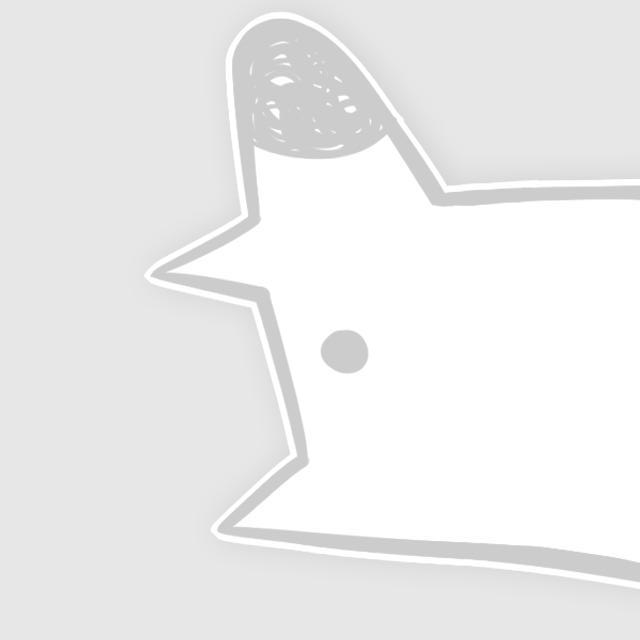
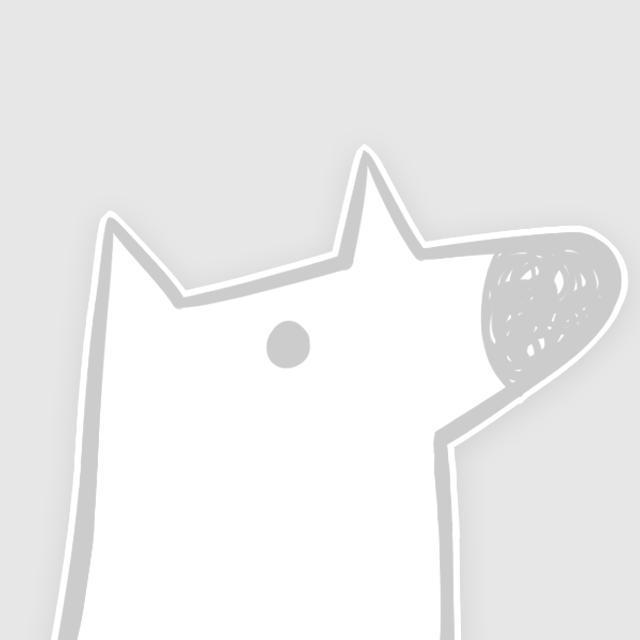
再改一改默认图片

Changed region(s): [[0.0938, 0.0312, 1.0, 1.0]]

diff --git a/frontend/infoVerificationSys/src/views/student/OCRVerify/OCRVerify.vue b/frontend/infoVerificationSys/src/views/student/OCRVerify/OCRVerify.vue
@@ -2,7 +2,7 @@
 
 <template>
   <div id="OCRVerify">
-    <mt-header fixed title="（1 / 3）OCR身份识别">
+    <mt-header fixed title="（1 / 4）OCR身份识别">
       <router-link to="/stu" slot="left">
         <mt-button icon="back">返回</mt-button>
       </router-link>
@@ -56,7 +56,7 @@
 import MtButton from 'mint-ui/packages/button/src/button'
 import MtHeader from "mint-ui/packages/header/src/header"
 import {MessageBox,Indicator} from 'mint-ui'
-import {doOCR, doOCRNegative, getStatus} from "../../../utils/stuAPI";
+import {userOCRLogin, getStatus} from "../../../utils/stuAPI";
 import lrz from 'lrz';
 import Cookies from 'js-cookie'
 import MtRadio from "mint-ui/packages/radio/src/radio";
@@ -87,8 +87,8 @@ export default {
       backCommitState: false,
       backCommitAble:false,
       sheetVisible:false,
-      img1:'https://github.com/CgyAlexwong/InfoVerficationSys/blob/uc1/frontend/infoVerificationSys/src/assets/da8e974dc.jpg?raw=true',
-      img2:'https://github.com/CgyAlexwong/InfoVerficationSys/blob/uc1/frontend/infoVerificationSys/src/assets/da8e974dc.jpg?raw=true',
+      img1:'https://github.com/CgyAlexwong/InfoVerficationSys/blob/uc1/frontend/infoVerificationSys/src/assets/default.jpg?raw=true',
+      img2:'https://github.com/CgyAlexwong/InfoVerficationSys/blob/uc1/frontend/infoVerificationSys/src/assets/default.jpg?raw=true',
       formData1 : new FormData(),
       formData2 : new FormData(),
       r1: 0,
@@ -147,7 +147,7 @@ export default {
     checkFront () {
       console.log(this.type);
       Indicator.open({text:'通行证正面校验中，请稍等……',spinnerType:'fading-circle'});
-      doOCR(this.formData1,this.type).then(res =>{
+      userOCRLogin(this.formData1,this.type).then(res =>{
         Indicator.close();
         //if (res.succeed === true){
           //MessageBox.alert('', {

diff --git a/frontend/infoVerificationSys/src/utils/stuAPI.js b/frontend/infoVerificationSys/src/utils/stuAPI.js
@@ -29,9 +29,9 @@ let http = axios.create({
 
 // 00 反馈
 // 留下联系信息 stuName String, contact String, remark String
-// export const feedBack = params => {
-//   return axios.post('/userBasicFunc/feedback', params, {headers: {identityNum: Cookies.get('id')}}).then(res => res.data)
-// };
+export const feedBack = params => {
+  return axios.post('/userBasicFunc/feedback', params, {headers: {identityNum: Cookies.get('id')}}).then(res => res.data)
+};
 
 // 01 身份选择
 // 检查通行证号是否存在
@@ -41,9 +41,9 @@ export const userJuniorLogin = params => {
 
 // 02 人脸识别
 // 上传人脸照片文件匹配 File photo, HttpServletRequest request
-// export const recognize = (params,times) => {
-//   return axios.post('/faceRecognition/recognize', params, {headers: {identityNum: Cookies.get('id'),times:times}}).then(res => res.data)
-// };
+export const recognize = (params,times) => {
+  return axios.post('/faceRecognition/recognize', params, {headers: {identityNum: Cookies.get('id'),times:times}}).then(res => res.data)
+};
 
 // 03 OCR识别
 // 上传通行证正面 File identification, HttpServletRequest request
@@ -72,9 +72,9 @@ export const setOtherInfo = params => {
 
 // 05电子签名
 // 提交电子签名
-// export const setSignature = params => {
-//   return axios.post('/userBasicFunc/sign', params, {headers: {identityNum: Cookies.get('id')}}).then(res => res.data)
-// };
+export const setSignature = params => {
+  return axios.post('/userBasicFunc/sign', params, {headers: {identityNum: Cookies.get('id')}}).then(res => res.data)
+};
 
 // 获取学生状态信息
 export const getStatus = () => {

diff --git a/frontend/infoVerificationSys/src/views/student/informationVerify/informationVerify.vue b/frontend/infoVerificationSys/src/views/student/informationVerify/informationVerify.vue
@@ -3,7 +3,7 @@
 <template>
   <div id="informationVerify">
     <div id = 'head'>
-      <mt-header fixed title="（2 / 3）基本信息校验">
+      <mt-header fixed title="（2 / 4）基本信息校验">
         <router-link to="/stu/OCRVerify" slot="left">
           <mt-button icon="back" @click="warn">返回</mt-button>
         </router-link>
@@ -99,7 +99,7 @@ import MtTabItem from "mint-ui/packages/tab-item/src/tab-item"
 import MtTabContainer from "mint-ui/packages/tab-container/src/tab-container"
 import MtTabContainerItem from "mint-ui/packages/tab-container-item/src/tab-container-item"
 import MtCell from "mint-ui/packages/cell/src/cell";
-import {getInfo, getStatus, setUserInfo} from "../../../utils/stuAPI";
+import {getInfo, getStatus, setBasicInfo} from "../../../utils/stuAPI";
 import MtField from "mint-ui/packages/field/src/field"
 import student from '../identitySelect/identitySelect'
 import {checkChinese} from "../../../utils/checkList";

diff --git a/frontend/infoVerificationSys/src/views/student/identitySelect/identitySelect.vue b/frontend/infoVerificationSys/src/views/student/identitySelect/identitySelect.vue
@@ -4,7 +4,7 @@
   <div id="identitySelect">
     <!-- 新的header -->
     <div id = 'head'>
-      <mt-header fixed title="（1 / 3）身份选择">
+      <mt-header fixed title="（1 / 4）身份选择">
         <router-link to="/stu" slot="left">
           <mt-button icon="back">返回</mt-button>
         </router-link>

diff --git a/frontend/infoVerificationSys/src/components/end.vue b/frontend/infoVerificationSys/src/components/end.vue
@@ -1,7 +1,7 @@
 <template>
   <div>
     <div id = "header">
-      <mt-header fixed title="（3 / 3）校验完成">
+      <mt-header fixed title="（4 / 4）校验完成">
         <router-link to="/stu" slot="left">
           <mt-button icon="back">首页</mt-button>
         </router-link>
